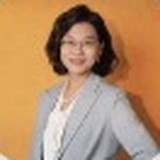
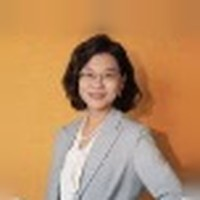
davos: 更名「达沃斯·魔山问道」，去掉所有「炉」字；视频放慢到 0.6 倍；头像重新裁切；加随行摄影木晓和千百合微信
Claude-Session: https://claude.ai/code/session_01BfepyH4oryd8qosAZYR7C7

diff --git a/davos/index.html b/davos/index.html
@@ -4,14 +4,14 @@
 <meta charset="utf-8">
 <meta name="theme-color" content="#F5F7F5">
 <meta name="viewport" content="width=device-width,initial-scale=1,viewport-fit=cover">
-<title>达沃斯 · 与世界围炉 ｜ 边玩边赚</title>
-<meta name="description" content="2027 年 1 月，世界经济论坛年会期间，在达沃斯的雪山下生一炉火。第一炉：魔山问道——带着自己的问题，去听听世界怎么说。仅限申请。">
+<title>达沃斯 · 魔山问道 ｜ 边玩边赚</title>
+<meta name="description" content="达沃斯 · 魔山问道：2027 年 1 月世界经济论坛年会期间，带着自己的问题上山，去听听世界怎么说。仅限申请。">
 <link rel="icon" type="image/png" href="../island/img/logo-icon.png">
 <link rel="preconnect" href="https://fonts.googleapis.com">
 <link rel="preconnect" href="https://fonts.gstatic.com" crossorigin>
 <link rel="stylesheet" href="https://fonts.googleapis.com/css2?family=Noto+Serif+SC:wght@500;700;900&family=Noto+Sans+SC:wght@400;500;700&family=IBM+Plex+Mono:wght@400;500&display=swap" media="print" onload="this.media='all'">
 <style>
-/* 雪线之上：雪山白的底，未来深蓝的字，冰川青是未来，炉火金是人 */
+/* 雪线之上：雪山白的底，未来深蓝的字，冰川青是未来，暖金是人 */
 :root{
   --bg:#F5F7F5;
   --bg2:#EAF4F6;
@@ -102,7 +102,13 @@ nav .btn{padding:9px 18px;font-size:.9rem}
 .place figcaption small{font-size:.66rem;opacity:.75;font-family:var(--f-mono)}
 @media (max-width:860px){.places{grid-template-columns:1fr 1fr}}
 /* host photos */
-.host .ph{width:84px;height:84px;border-radius:50%;object-fit:cover;object-position:top;margin-bottom:14px;border:3px solid #fff;box-shadow:0 6px 18px -8px rgba(16,29,50,.45);background:linear-gradient(160deg,var(--glacier),#fff)}
+.host .ph{width:88px;height:88px;border-radius:50%;object-fit:cover;object-position:center;margin-bottom:14px;border:3px solid #fff;box-shadow:0 6px 18px -8px rgba(16,29,50,.45);background:linear-gradient(160deg,var(--glacier),#fff)}
+/* wechat */
+.wx{display:flex;gap:20px;align-items:center;margin-top:26px;background:var(--card);border:1px solid var(--line);border-radius:10px;padding:18px;max-width:560px}
+.wx img{width:120px;height:120px;border-radius:6px}
+.wx b{font-size:1.05rem}
+.wx p{margin-top:6px;font-size:.92rem}
+.mono{font-family:var(--f-mono);color:var(--deep);font-weight:500}
 /* faq */
 .faq{margin-top:32px;border-top:1px solid var(--line)}
 .faq details{border-bottom:1px solid var(--line);padding:16px 0}
@@ -215,12 +221,12 @@ figcaption{font-size:.74rem;color:var(--mist);margin-top:8px;font-family:var(--f
 .gates span{color:var(--mist);font-size:.95rem}
 
 /* hosts */
-.hosts{display:grid;grid-template-columns:1fr 1fr;gap:16px;margin-top:36px}
+.hosts{display:grid;grid-template-columns:repeat(3,1fr);gap:16px;margin-top:36px}
 .host{border:1px solid var(--line);border-radius:10px;padding:28px;background:var(--card)}
 .host small{font-family:var(--f-mono);color:var(--cyan);letter-spacing:.12em;font-size:.76rem}
 .host h3{font-size:1.5rem;margin:6px 0 12px}
 .host p{color:var(--mist)}
-@media (max-width:720px){.hosts{grid-template-columns:1fr}}
+@media (max-width:860px){.hosts{grid-template-columns:1fr}}
 
 /* join */
 .steps{display:grid;grid-template-columns:repeat(3,1fr);gap:14px;margin-top:36px}
@@ -255,11 +261,11 @@ footer .credits{margin-top:12px;line-height:1.9}
     <ul>
       <li><a href="#journey">一个问题的旅程</a></li>
       <li><a href="#theme">今年的主题</a></li>
-      <li><a href="#fire">围炉</a></li>
+      <li><a href="#fire">长桌晚宴</a></li>
       <li><a href="#days">八天</a></li>
       <li><a href="#you">我们在找你</a></li>
     </ul>
-    <a class="btn" href="https://dcntf99ii002.feishu.cn/share/base/form/shrcn7dOgtuSWU5rkLnnmQCHyqg" target="_blank" rel="noopener">申请入炉</a>
+    <a class="btn" href="https://dcntf99ii002.feishu.cn/share/base/form/shrcn7dOgtuSWU5rkLnnmQCHyqg" target="_blank" rel="noopener">申请同行</a>
   </div>
 </nav>
 
@@ -270,13 +276,13 @@ footer .credits{margin-top:12px;line-height:1.9}
   <div class="grid"></div>
   <div class="sun"></div>
   <div class="wrap">
-    <span class="chip">DAVOS 2027 · THE FIRST FIRE <b>魔山问道</b></span>
-    <h1>达沃斯<span class="dot"> · </span>与世界围炉</h1>
-    <p class="tag">世界在达沃斯开会，我们在雪山下生一炉火。</p>
+    <span class="chip">DAVOS 2027 · 第一届 <b>带着问题上山</b></span>
+    <h1>达沃斯<span class="dot"> · </span>魔山问道</h1>
+    <p class="tag">世界在达沃斯开会，我们带着问题上山。</p>
     <p class="sub">你不是去旁听世界的未来。你是带着自己的问题，去参与一场关于未来的对话。</p>
     <div class="meta"><span>2027.1.17 — 1.24</span><span>瑞士 · 达沃斯及周边</span><span>小范围私人对话 · 仅限申请</span></div>
     <div class="cta">
-      <a class="btn gold" href="https://dcntf99ii002.feishu.cn/share/base/form/shrcn7dOgtuSWU5rkLnnmQCHyqg" target="_blank" rel="noopener">申请入炉 →</a>
+      <a class="btn gold" href="https://dcntf99ii002.feishu.cn/share/base/form/shrcn7dOgtuSWU5rkLnnmQCHyqg" target="_blank" rel="noopener">申请同行 →</a>
       <a class="btn ghost" href="#invite">先看看</a>
     </div>
     <p class="note">本活动由「边玩边赚」独立策划，与世界经济论坛（WEF）无隶属关系，不包含年会官方主会场入场资格。</p>
@@ -307,7 +313,7 @@ footer .credits{margin-top:12px;line-height:1.9}
       <div>想把事业做到国外去，却不知道外面的人在想什么、要什么。</div>
       <div>一年忙到头，没有一个星期，是真正停下来想问题的。</div>
     </div>
-    <p class="res-end reveal">那这炉火，<em>就是为你生的。</em></p>
+    <p class="res-end reveal">那这一趟，<em>就是为你准备的。</em></p>
   </div>
 </section>
 
@@ -323,7 +329,7 @@ footer .credits{margin-top:12px;line-height:1.9}
       <div class="jstep"><div class="n">01</div><div><h3>写下你的问题</h3><p>报名时写下事业上最想解决、还没找到答案的那一个问题。</p></div></div>
       <div class="jstep"><div class="n">02</div><div><h3>画一张问题地图</h3><p>出发前，我们用 AI 帮你梳理相关的全球议题、值得关注的边会和要见的人。</p></div></div>
       <div class="jstep"><div class="n">03</div><div><h3>走进现场</h3><p>在达沃斯，按地图去听、去问，听听不同国家、不同行业的人怎么看。</p></div></div>
-      <div class="jstep"><div class="n">04</div><div><h3>回到炉边复盘</h3><p>晚上回到长桌前，把白天听到的拿出来，和同桌的人掰开了聊。</p></div></div>
+      <div class="jstep"><div class="n">04</div><div><h3>回到长桌复盘</h3><p>晚上回到长桌前，把白天听到的拿出来，和同桌的人掰开了聊。</p></div></div>
       <div class="jstep"><div class="n">05</div><div><h3>写成一篇文章</h3><p>下山后，把问题和答案写成署名文章，收进书里。</p></div></div>
     </div>
     <div class="map reveal">
@@ -364,7 +370,7 @@ footer .credits{margin-top:12px;line-height:1.9}
       <div><b>1971</b><span>两个人，在达沃斯办了第一届</span></div>
       <div><b>1979</b><span>论坛向中国打开大门</span></div>
       <div><b>~3000</b><span>2027 年会预计参会人数</span></div>
-      <div><b>2027</b><span>第 57 届，我们生起第一炉火</span></div>
+      <div><b>2027</b><span>第 57 届，我们第一次上山</span></div>
     </div>
   </div>
 </section>
@@ -386,7 +392,7 @@ footer .credits{margin-top:12px;line-height:1.9}
       <div class="qc ours"><b>05 · AI 与人</b><h3>AI 时代，如何让人更有力量？</h3><p>Empower humanity in the age of AI</p></div>
     </div>
     <div class="answer reveal">
-      <span class="eyebrow" style="color:var(--gold2)">我们在炉边的追问</span>
+      <span class="eyebrow" style="color:var(--gold2)">我们在长桌边的追问</span>
       <h3>世界经济论坛讨论全球如何走向未来。<br>我们追问：<span>当世界改变，你的事业、你的选择、你的人生，准备如何改变？</span></h3>
     </div>
   </div>
@@ -401,8 +407,8 @@ footer .credits{margin-top:12px;line-height:1.9}
         <figcaption>Philipp Bauknecht《达沃斯的冬夜》· 公有领域</figcaption>
       </figure>
       <div class="prose reveal">
-        <span class="eyebrow">The First Fire · 2027</span>
-        <h2 class="h2" style="margin-bottom:8px">第一炉：魔山问道</h2>
+        <span class="eyebrow">The Magic Mountain</span>
+        <h2 class="h2" style="margin-bottom:8px">为什么叫"魔山问道"</h2>
         <p class="lead muted" style="margin-bottom:22px">带着自己的问题，去听听世界怎么说。</p>
         <p>达沃斯是托马斯·曼小说《魔山》故事发生的地方。每年一月，这座“魔山”上聚满了想为世界找答案的人。我们也带着问题上山。</p>
         <p>我们不承诺每个人都会找到答案。但下山时，你对自己的问题，一定会比上山前看得更清楚。</p>
@@ -412,22 +418,22 @@ footer .credits{margin-top:12px;line-height:1.9}
   </div>
 </section>
 
-<!-- 一炉火 -->
+<!-- 长桌晚宴 -->
 <section class="fire" id="fire">
   <img class="bgart" src="https://commons.wikimedia.org/wiki/Special:FilePath/Schatzalp.jpg?width=1800" alt="" loading="lazy">
   <div class="wrap reveal">
-    <span class="eyebrow" style="text-align:center">The Fireside Dinner</span>
-    <h2>一炉火</h2>
-    <p class="lead">会期第二晚，我们在镇上生一炉火。不搭台子，不挂横幅，不卖门票。没有讲台，没有标准答案；一张长桌，坐的都是愿意彼此成就的人，还有我们请来的世界客人。</p>
-    <p class="topic"><small>今晚的议题 · 炉边谈未来</small>AI 重写商业，人如何定义自己？</p>
+    <span class="eyebrow" style="text-align:center">The Long Table</span>
+    <h2>魔山长桌宴</h2>
+    <p class="lead">会期第二晚，我们在镇上摆一张长桌。不搭台子，不挂横幅，不卖门票。没有讲台，没有标准答案；一张长桌，坐的都是愿意彼此成就的人，还有我们请来的世界客人。</p>
+    <p class="topic"><small>今晚的议题 · 长桌谈未来</small>AI 重写商业，人如何定义自己？</p>
     <div class="agenda">
       <div><b>01</b><h3>落座</h3><p>每人一句话：我是谁，我带来了什么问题。</p></div>
-      <div><b>02</b><h3>三轮炉边谈</h3><p>围绕议题分三轮，每轮一位起头，所有人都有机会开口。</p></div>
+      <div><b>02</b><h3>三轮长桌谈</h3><p>围绕议题分三轮，每轮一位起头，所有人都有机会开口。</p></div>
       <div><b>03</b><h3>世界客人</h3><p>请来的客人分享他们在自己国家看到的变化。</p></div>
       <div><b>04</b><h3>最后一问</h3><p>如果 AI 能替你做的事越来越多，哪件事你还是要亲自做？</p></div>
     </div>
-    <p class="rule">炉边的话留在炉边：晚宴上的私人谈话不录制、不公开；要引用，先征得本人同意。</p>
-    <p class="line">炉是我们生的。世界来坐，你来带走自己的答案。</p>
+    <p class="rule">桌上的话留在桌上：晚宴上的私人谈话不录制、不公开；要引用，先征得本人同意。</p>
+    <p class="line">桌是我们摆的。世界来坐，你带走自己的答案。</p>
   </div>
 </section>
 
@@ -443,7 +449,7 @@ footer .credits{margin-top:12px;line-height:1.9}
     <div class="days reveal" style="margin-top:16px">
       <div class="day"><small>1/17 周日</small><h3>落地 · 第一夜</h3><p>苏黎世接机，入住雪山下的私宅。晚饭时每人讲一件事：我这次带来的问题。</p></div>
       <div class="day"><small>1/18 周一 · 开幕</small><h3>走一遍 Promenade</h3><p>本地朋友带路，走进主街上对外开放的国家馆、企业馆和主题馆（如 AI House），先把这一周的达沃斯看全。</p></div>
-      <div class="day hot"><small>1/19 周二</small><h3>按地图去听 · 晚上围炉</h3><p>白天按你的问题地图，去听提前报好名的边会和主题论坛；晚上回到长桌前：与世界围炉。</p></div>
+      <div class="day hot"><small>1/19 周二</small><h3>按地图去听 · 晚上长桌宴</h3><p>白天按你的问题地图，去听提前报好名的边会和主题论坛；晚上回到长桌前：魔山长桌宴。</p></div>
       <div class="day"><small>1/20 周三</small><h3>见人 · 访谈 · 留影</h3><p>再访最有收获的场馆，约见、深谈、采访。摄影师为每个人拍一组在达沃斯的形象照。</p></div>
     </div>
     <h3 class="reveal" style="font-size:var(--s3);margin-top:36px">延伸行程 · 阿尔卑斯小游 <span class="muted" style="font-family:var(--f-body);font-size:.95rem;font-weight:400">（自愿参加，强烈推荐）</span></h3>
@@ -457,7 +463,7 @@ footer .credits{margin-top:12px;line-height:1.9}
     <div class="days reveal" style="margin-top:16px">
       <div class="day ext"><small>1/21 周四</small><h3>一天四国</h3><p>从住处出发，往列支敦士登、奥地利方向走。</p></div>
       <div class="day ext"><small>1/22 周五</small><h3>德国一线</h3><p>往慕尼黑方向走，见当地的朋友。</p></div>
-      <div class="day ext"><small>1/23 周六</small><h3>收炉</h3><p>回看这一周：我的问题，有答案了吗？当场动笔，写下初稿。</p></div>
+      <div class="day ext"><small>1/23 周六</small><h3>收官</h3><p>回看这一周：我的问题，有答案了吗？当场动笔，写下初稿。</p></div>
       <div class="day ext"><small>1/24 周日</small><h3>各自下山</h3><p>带着更清楚的方向，回到自己的世界。</p></div>
     </div>
     <div class="strip reveal">
@@ -480,7 +486,7 @@ footer .credits{margin-top:12px;line-height:1.9}
       <div class="cardx"><h3>一个更清楚的方向</h3><p>不一定是现成的答案，而可能是一个新方向、一个新的商业思路，或一个终于下定决心要做的决定。</p></div>
       <div class="cardx"><h3>一个作者身份</h3><p>这次经历不止于合影。你把一路的观察、对话与思考写成署名文章，收进《穿过悲欢，笑答人生》。</p></div>
       <div class="cardx"><h3>一组影像</h3><p>摄影师全程跟拍：你在达沃斯的形象照，还有这一周的纪录短片。</p></div>
-      <div class="cardx"><h3>一炉人</h3><p>不是一叠名片，而是一群真正深聊过、以后还能互相帮衬的同路人。</p></div>
+      <div class="cardx"><h3>一桌人</h3><p>不是一叠名片，而是一群真正深聊过、以后还能互相帮衬的同路人。</p></div>
     </div>
   </div>
 </section>
@@ -491,7 +497,7 @@ footer .credits{margin-top:12px;line-height:1.9}
     <div class="reveal">
       <span class="eyebrow">Who We're Looking For</span>
       <h2 class="h2">我们在找这样的你</h2>
-      <p class="lead" style="margin-top:14px">这炉火刻意不大。我们不以头衔决定座次，而看你正在创造什么、思考什么，能为这一桌人带来什么。我们挑人，也请你认真挑我们。</p>
+      <p class="lead" style="margin-top:14px">这张桌子刻意不大。我们不以头衔决定座次，而看你正在创造什么、思考什么，能为这一桌人带来什么。我们挑人，也请你认真挑我们。</p>
     </div>
     <ol class="gates reveal">
       <li><div><b>你手里有一份真事业</b><span>公司、产品，或一件你正在用全部力气推进的事。</span></div></li>
@@ -508,12 +514,12 @@ footer .credits{margin-top:12px;line-height:1.9}
   <div class="wrap">
     <div class="narrow reveal">
       <span class="eyebrow">Your Hosts</span>
-      <h2 class="h2">生火的人</h2>
-      <p class="lead" style="margin-top:14px">研究议题、挑选边会、当地安排、组织围炉、回来成书，这些麻烦事我们来做。你只管把心思放在人和事上。</p>
+      <h2 class="h2">带你上山的人</h2>
+      <p class="lead" style="margin-top:14px">研究议题、挑选边会、当地安排、组织晚宴、回来成书，这些麻烦事我们来做。你只管把心思放在人和事上。</p>
     </div>
     <div class="hosts reveal">
       <div class="host">
-        <img class="ph" src="img/host-lily.webp" alt="千百合">
+        <img class="ph" src="img/host-lily.jpg" alt="千百合">
         <small>美国 · 达拉斯</small>
         <h3>千百合</h3>
         <p>边玩边赚联合创始人。AI 教育者，畅销书出品人（20 多本），独立投资人，美国德州大学达拉斯分校 AI 硕士。带着玩赚队，把“玩、旅行、学习、赚钱”活成一件事。</p>
@@ -523,6 +529,12 @@ footer .credits{margin-top:12px;line-height:1.9}
         <small>瑞士</small>
         <h3>瑞士哈哈妈</h3>
         <p>生活在瑞士的多语言自由导师，教人用学母语的方式学外语。去年会期，她就组织过一群朋友一起走进达沃斯。</p>
+      </div>
+      <div class="host">
+        <img class="ph" src="img/host-muxiao.jpg" alt="木晓">
+        <small>随行摄影 · 上海</small>
+        <h3>木晓</h3>
+        <p>正念摄影艺术家，边玩边赚系列书的联合出品人。这一周，他负责把你在达沃斯的样子留下来。</p>
       </div>
     </div>
   </div>
@@ -534,18 +546,21 @@ footer .credits{margin-top:12px;line-height:1.9}
     <div class="narrow reveal">
       <span class="eyebrow">How to Join</span>
       <h2 class="h2">怎么加入</h2>
-      <p class="lead" style="margin-top:14px">仅限申请。我们只邀请同一炉的人。</p>
+      <p class="lead" style="margin-top:14px">仅限申请。每一份申请，我们都会认真看。</p>
     </div>
     <div class="steps reveal">
       <div class="step"><b>STEP 01</b><h3>写下你的问题</h3><p>写下你是谁、在做什么，以及这次想带去达沃斯的那个问题。</p></div>
-      <div class="step"><b>STEP 02</b><h3>一对一聊一次</h3><p>千百合或哈哈妈和你视频 30 分钟，互相看看是不是同一炉的人。</p></div>
-      <div class="step"><b>STEP 03</b><h3>确认入炉</h3><p>发出正式邀请，开始准备签证和行程，并在出发前收到你的问题地图。</p></div>
+      <div class="step"><b>STEP 02</b><h3>一对一聊一次</h3><p>千百合或哈哈妈和你视频 30 分钟，互相看看是不是合适的同行人。</p></div>
+      <div class="step"><b>STEP 03</b><h3>确认同行</h3><p>发出正式邀请，开始准备签证和行程，并在出发前收到你的问题地图。</p></div>
     </div>
     <div class="deadline reveal">
       <p class="d">申请截止：<em>2026 年 12 月 6 日</em></p>
       <a class="btn gold" href="https://dcntf99ii002.feishu.cn/share/base/form/shrcn7dOgtuSWU5rkLnnmQCHyqg" target="_blank" rel="noopener">填写申请（4 个问题，2 分钟）→</a>
     </div>
-    <p class="muted reveal" style="margin-top:12px">需要办申根签证的朋友，请尽早申请。也可以直接私信千百合或瑞士哈哈妈。</p>
+    <div class="wx reveal">
+      <img src="img/lily-wechat.jpg" alt="千百合的微信二维码">
+      <div><b>想先聊聊？加千百合的微信</b><p>微信号 <span class="mono">iamsohappy8</span>，加的时候备注"达沃斯"。</p><p class="muted">需要办申根签证的朋友，请尽早申请。</p></div>
+    </div>
     <div class="faq reveal">
       <details><summary>能进年会的主会场吗？</summary><p>不能，我们也不承诺。主会场靠邀请进入。我们去的是主会场外对公众开放的国家馆、主题馆和边会，这也是大多数人真正收获最多的地方。</p></details>
       <details><summary>英语不好，能参加吗？</summary><p>能。千百合和哈哈妈全程在，日常沟通和边会都会帮你翻译、引荐。</p></details>
@@ -560,7 +575,7 @@ footer .credits{margin-top:12px;line-height:1.9}
 <!-- 结尾 -->
 <section class="closing band">
   <div class="wrap reveal">
-    <p>世界的未来，不会在一周内揭晓。<br>但你自己的下一步，也许会因此变得清晰。<br><em>今年是第一炉。</em></p>
+    <p>世界的未来，不会在一周内揭晓。<br>但你自己的下一步，也许会因此变得清晰。<br><em>今年是第一届。</em></p>
   </div>
 </section>
 
@@ -574,6 +589,7 @@ footer .credits{margin-top:12px;line-height:1.9}
 <script>
 (function(){
   var hv=document.getElementById('heroVideo');
+  if(hv){var slow=function(){hv.playbackRate=0.6};slow();hv.addEventListener('loadedmetadata',slow);hv.addEventListener('play',slow);}
   if(hv && window.matchMedia('(prefers-reduced-motion: reduce)').matches){hv.removeAttribute('autoplay');hv.pause();hv.style.display='none'}
 })();
 (function(){
